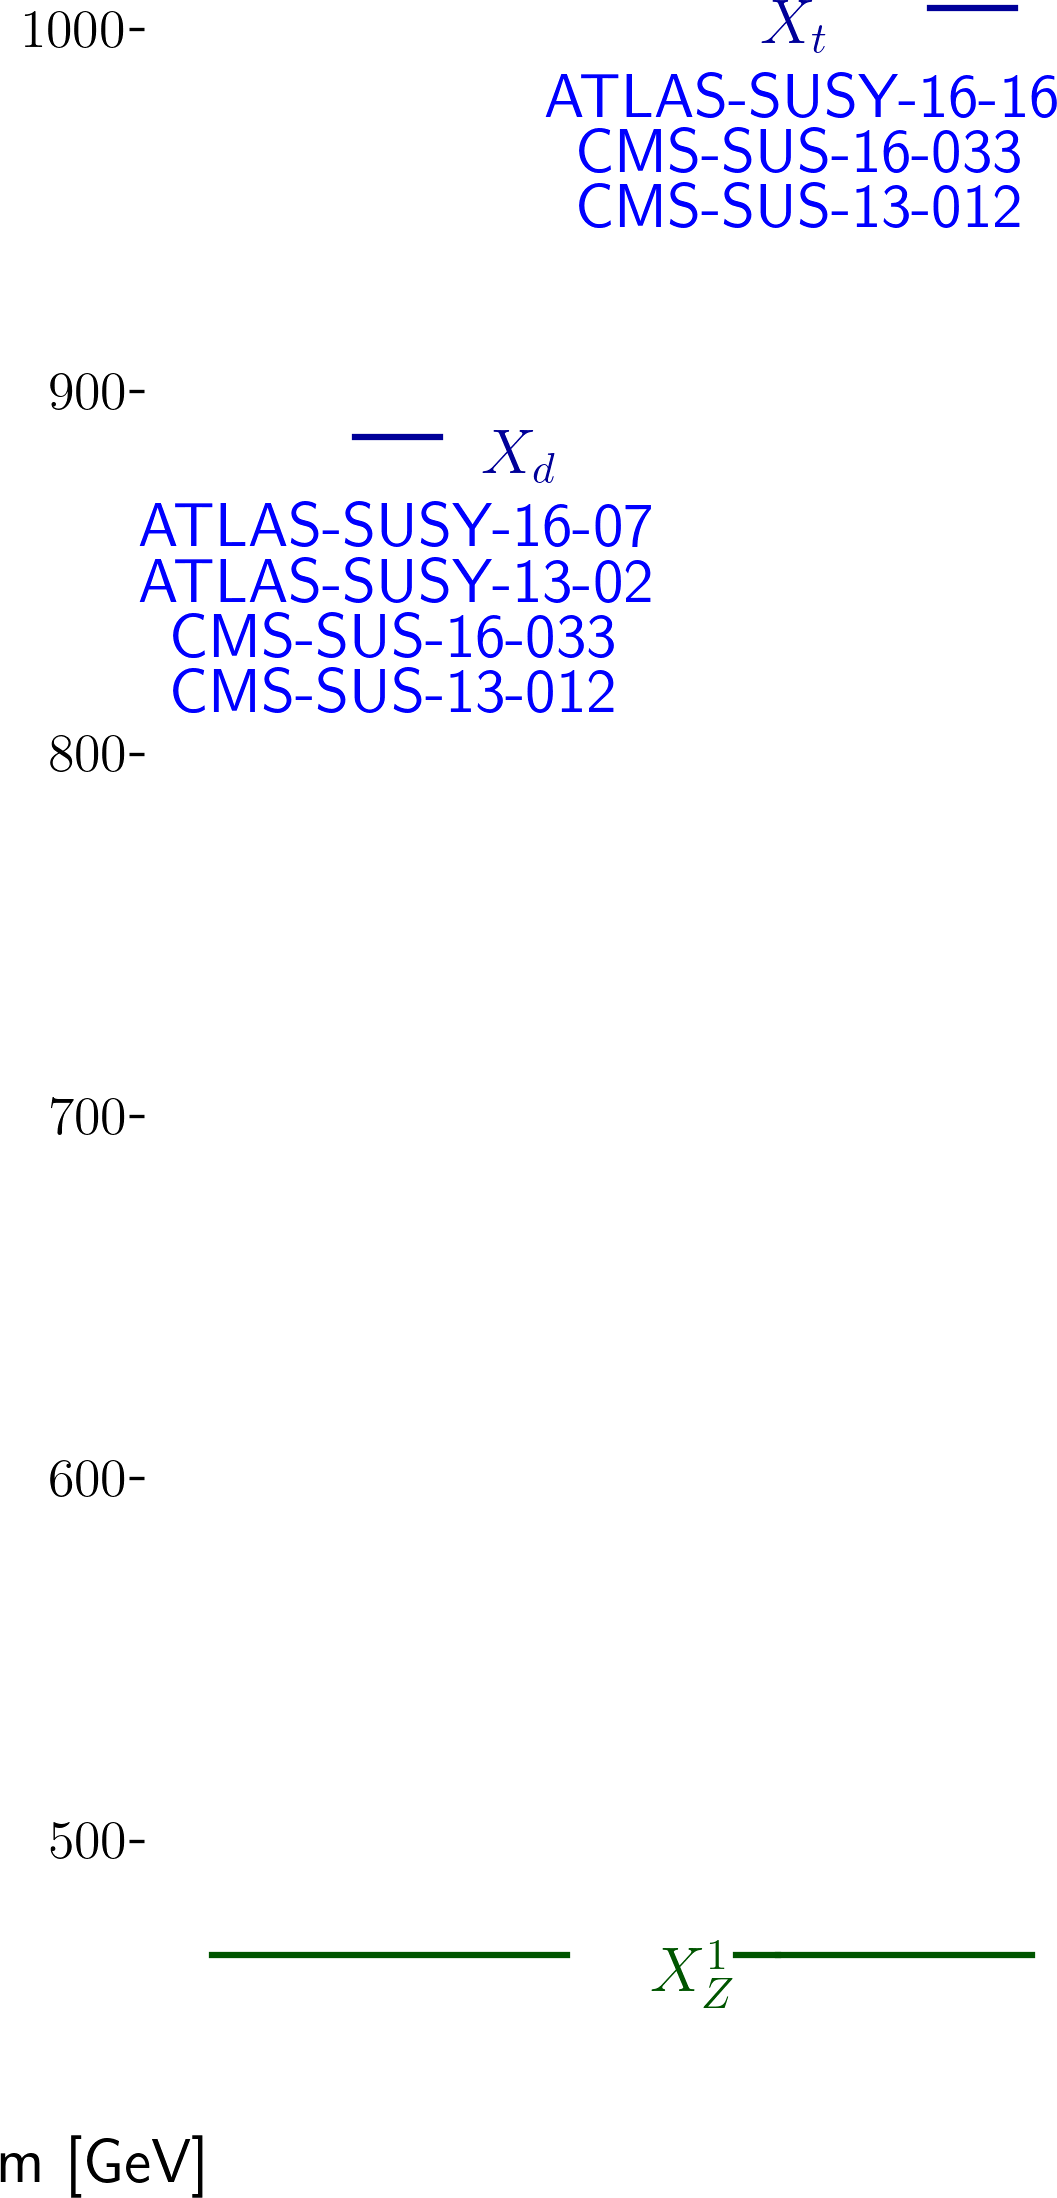
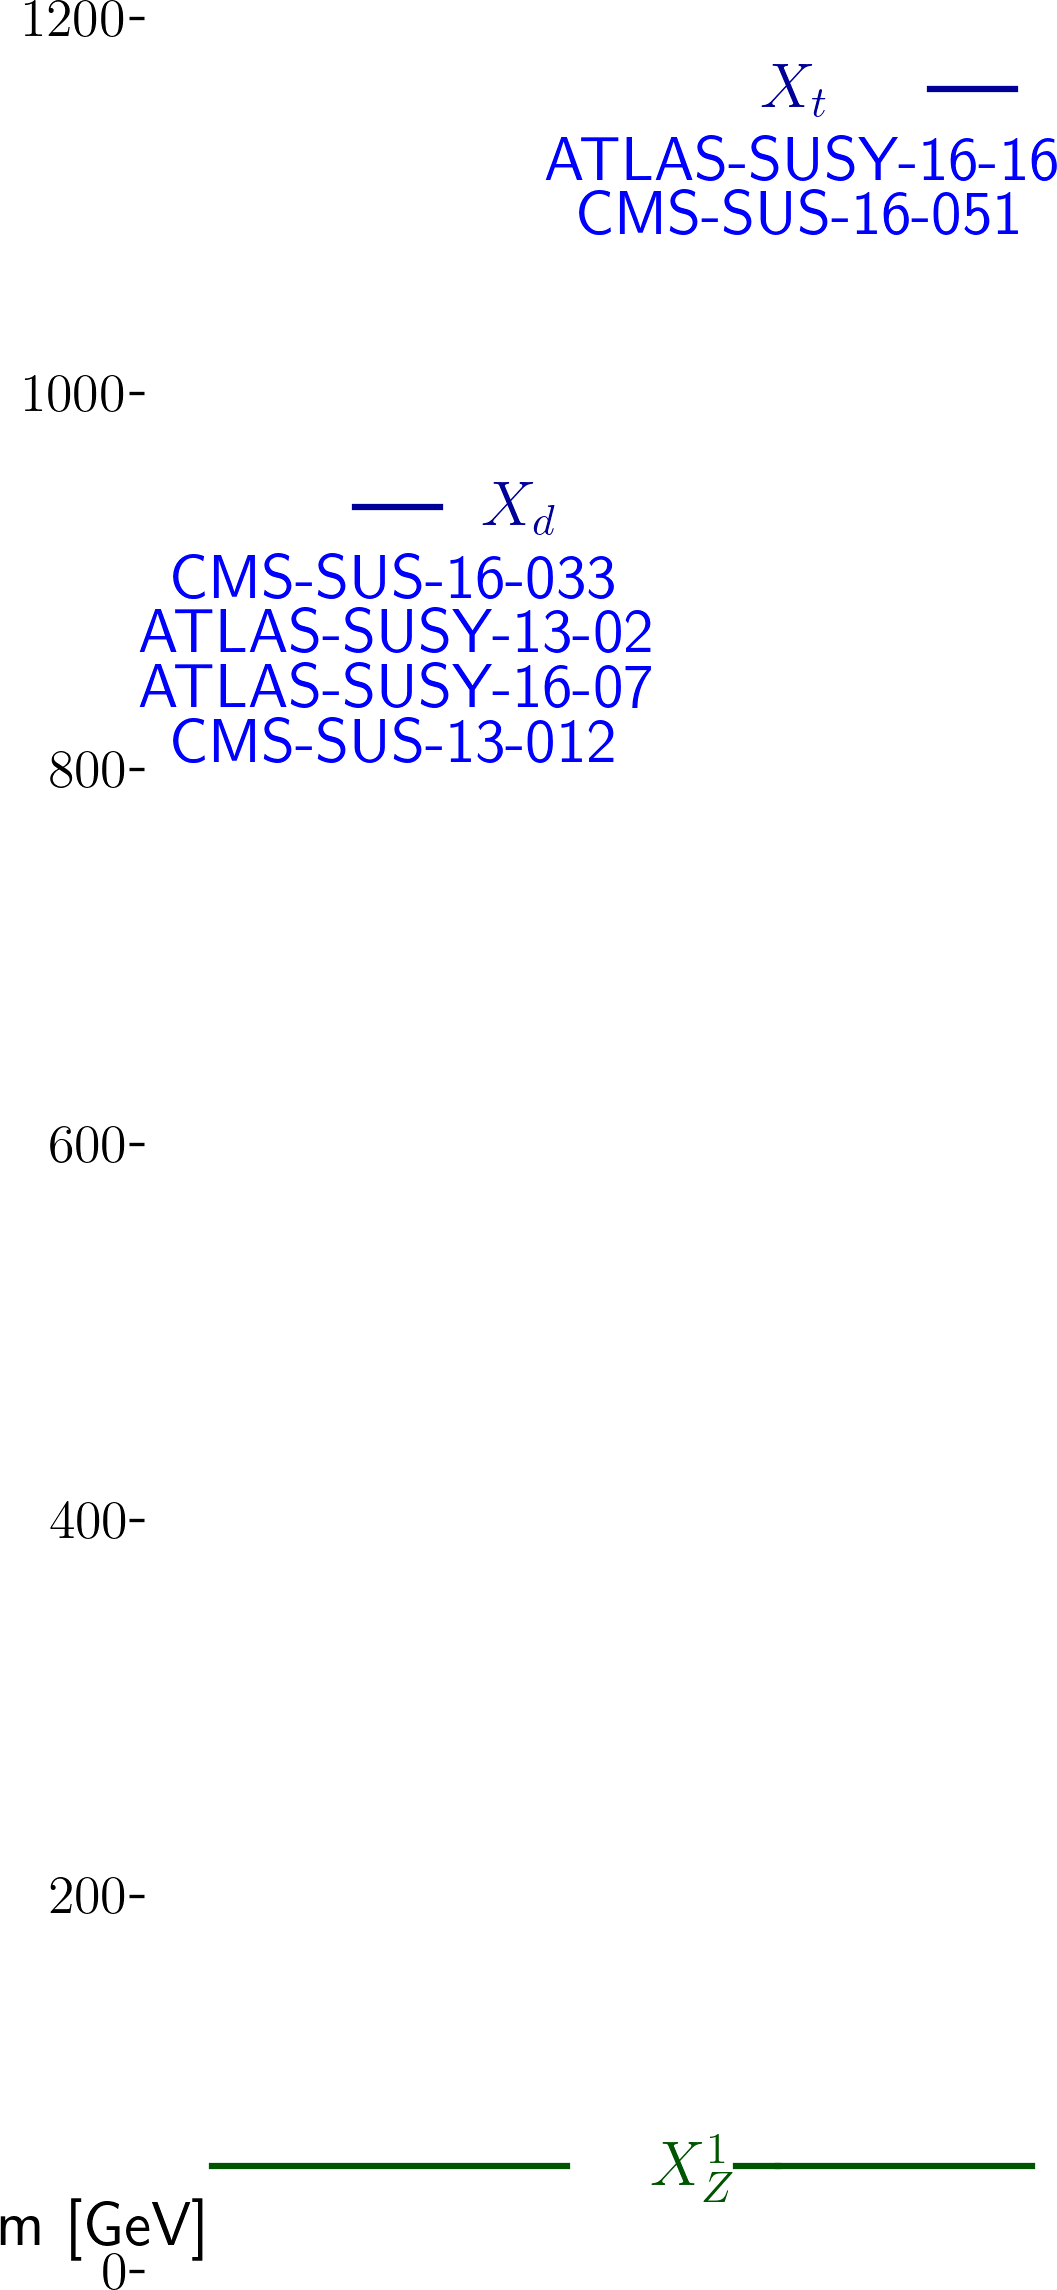
automated update by plotHiscore.py to /scratch-cbe/users/wolfgan.waltenberger/git/smodels.github.io/protomodels

diff --git a/protomodels/2020_PioneerStudy/closure_frozen4/index.html b/protomodels/2020_PioneerStudy/closure_frozen4/index.html
@@ -1,30 +1,31 @@
 <html>
 <body>
 <center>
-<table><td><h1>Current best protomodel: <i>K</i>=4.25</h1><td><img height=60px src=https://smodels.github.io/pics/banner.png></table>
+<table><td><h1>Current best protomodel: <i>K</i>=8.49</h1><td><img height=60px src=https://smodels.github.io/pics/banner.png></table>
 </center>
-<b><a href=./hiscore.slha>ProtoModel</a> <a href=./pmodel.py>(dict)</a> produced with <a href=https://smodels.github.io/docs/Validation124doublefrozen4>database v1.2.4doublefrozen4</a>, combination strategy <a href=./matrix_aggressive.png>aggressive</a> in walker 39 step 803.</b> <i>K</i> plots for: <a href=./M1000022.png?15051224>X<sub>Z</sub><sup>1</sup></a>, <a href=./M1000006.png?15051224>X<sub>t</sub></a>, <a href=./M1000001.png?15051224>X<sub>d</sub></a>. HPD plots for: <a href=./llhd1000006.png?15051224>X<sub>t</sub></a>, <a href=./llhd1000001.png?15051224>X<sub>d</sub></a>. SSM plots for: <a href=./ssm_-1000006_1000006.png?15051224>(x&#772;<sub>t</sub>,X<sub>t</sub>)</a><br>
+<b><a href=./hiscore.slha>ProtoModel</a> <a href=./pmodel.py>(dict)</a> produced with <a href=https://smodels.github.io/docs/Validation124frozen4>database v1.2.4frozen4</a>, combination strategy <a href=./matrix_aggressive.png>aggressive</a> in walker 3 step 894.</b> <i>K</i> plots for: <a href=./M1000022.png?15312448>X<sub>Z</sub><sup>1</sup></a>, <a href=./M1000006.png?15312448>X<sub>t</sub></a>, <a href=./M1000001.png?15312448>X<sub>d</sub></a>. HPD plots for: <a href=./llhd1000006.png?15312448>X<sub>t</sub></a>, <a href=./llhd1000001.png?15312448>X<sub>d</sub></a>. SSM plots for: <a href=./ssm_-1000006_1000006.png?15312448>(x&#772;<sub>t</sub>,X<sub>t</sub>)</a><br>
 <table width=80%>
 <tr><td>
-<br><b>26 predictions available. Highest r values are:</b><br><ul>
-<li><a href=http://cms-results.web.cern.ch/cms-results/public-results/publications/SUS-19-006/index.html>CMS-SUS-19-006</a>:T2 r=1.30, r<sub>exp</sub>=1.30<br>
-<li><a href=http://cms-results.web.cern.ch/cms-results/public-results/publications/SUS-16-049/index.html>CMS-SUS-16-049</a>:T2tt r=1.09, r<sub>exp</sub>=1.09<br>
-<li><a href=http://cms-results.web.cern.ch/cms-results/public-results/publications/SUS-16-050/index.html>CMS-SUS-16-050</a>:T2tt r=1.05, r<sub>exp</sub>=1.05<br>
-<li><a href=http://cms-results.web.cern.ch/cms-results/public-results/publications/SUS-16-033/index.html>CMS-SUS-16-033</a>:T2 r=1.00, r<sub>exp</sub>=1.00<br>
-<li><a href=http://cms-results.web.cern.ch/cms-results/public-results/publications/SUS-19-006/index.html>CMS-SUS-19-006</a>:T2tt r=0.96, r<sub>exp</sub>=0.96<br>
+<br><b>24 predictions available. Highest r values are:</b><br><ul>
+<li><a href=http://cms-results.web.cern.ch/cms-results/public-results/publications/SUS-19-006/index.html>CMS-SUS-19-006</a>:T2tt r=0.62, r<sub>exp</sub>=N/A<br>
+<li><a href=https://atlas.web.cern.ch/Atlas/GROUPS/PHYSICS/PAPERS/SUSY-2016-07/>ATLAS-SUSY-2016-07</a>:T2 r=0.61, r<sub>exp</sub>=N/A<br>
+<li><a href=http://cms-results.web.cern.ch/cms-results/public-results/publications/SUS-16-049/index.html>CMS-SUS-16-049</a>:T2tt r=0.58, r<sub>exp</sub>=N/A<br>
+<li><a href=http://cms-results.web.cern.ch/cms-results/public-results/publications/SUS-16-050/index.html>CMS-SUS-16-050</a>:T2tt r=0.57, r<sub>exp</sub>=N/A<br>
+<li><a href=http://cms-results.web.cern.ch/cms-results/public-results/publications/SUS-16-033/index.html>CMS-SUS-16-033</a>:T2tt r=0.47, r<sub>exp</sub>=N/A<br>
 </ul>
 <td><br><b>K values without analyses: (contribution)</b><br>
 <ul>
-<li> <a href=https://twiki.cern.ch/twiki/bin/view/CMSPublic/PhysicsResultsSUS13012>CMS-SUS-13-012</a>: 5.15 (-21%)
-<li> <a href=https://atlas.web.cern.ch/Atlas/GROUPS/PHYSICS/PAPERS/SUSY-2013-02/>ATLAS-SUSY-2013-02</a>: 4.89 (-15%)
-<li> <a href=http://cms-results.web.cern.ch/cms-results/public-results/publications/SUS-16-033/index.html>CMS-SUS-16-033</a>: 4.27 (0%)
-<li> <a href=https://atlas.web.cern.ch/Atlas/GROUPS/PHYSICS/PAPERS/SUSY-2016-16/>ATLAS-SUSY-2016-16</a>: 2.57 (40%)
-<li> <a href=https://atlas.web.cern.ch/Atlas/GROUPS/PHYSICS/PAPERS/SUSY-2016-07/>ATLAS-SUSY-2016-07</a>: 0.20 (97%)
-<td><img width=600px src=./texdoc.png?1608051224>
-<br><font size=-1>Last updated: Tue Dec 15 17:53:44 2020</font>
+<li> <a href=http://cms-results.web.cern.ch/cms-results/public-results/publications/SUS-16-033/index.html>CMS-SUS-16-033</a>: 0.70 (15%)
+<li> <a href=http://cms-results.web.cern.ch/cms-results/public-results/publications/SUS-16-051/index.html>CMS-SUS-16-051</a>: 0.70 (15%)
+<li> <a href=https://twiki.cern.ch/twiki/bin/view/CMSPublic/PhysicsResultsSUS13012>CMS-SUS-13-012</a>: 0.70 (15%)
+<li> <a href=https://atlas.web.cern.ch/Atlas/GROUPS/PHYSICS/PAPERS/SUSY-2013-02/>ATLAS-SUSY-2013-02</a>: 0.63 (15%)
+<li> <a href=https://atlas.web.cern.ch/Atlas/GROUPS/PHYSICS/PAPERS/SUSY-2016-07/>ATLAS-SUSY-2016-07</a>: -0.57 (18%)
+<li> <a href=https://atlas.web.cern.ch/Atlas/GROUPS/PHYSICS/PAPERS/SUSY-2016-16/>ATLAS-SUSY-2016-16</a>: -1.99 (21%)
+<td><img width=600px src=./texdoc.png?1608312448>
+<br><font size=-1>Last updated: Fri Dec 18 18:27:28 2020</font>
 </table><table style="width:80%">
-<td width=45%><img height=580px src=./ruler.png?1608051224><td width=55%><img height=380px src=./decays.png?1608051224>
-<font size=-3><iframe type="text/html" height="220px" width="100%s" frameborder="0" src="./rawnumbers.html?1608051224"></iframe></font>
+<td width=45%><img height=580px src=./ruler.png?1608312448><td width=55%><img height=380px src=./decays.png?1608312448>
+<font size=-3><iframe type="text/html" height="220px" width="100%s" frameborder="0" src="./rawnumbers.html?1608312448"></iframe></font>
 </table>
 </body>
 </html>

diff --git a/protomodels/2020_PioneerStudy/closure_frozen4/rawnumbers.html b/protomodels/2020_PioneerStudy/closure_frozen4/rawnumbers.html
@@ -1,9 +1,10 @@
 <table>
 <tr><th>Analysis Name</th><th>Type</th><th>Dataset</th><th>Topos</th><th>Observed</th><th>Expected</th><th>Approx &sigma;</th><th>Particles</th><th>Signal</th>
 </tr>
-<tr><td><a href=https://atlas.web.cern.ch/Atlas/GROUPS/PHYSICS/PAPERS/SUSY-2013-02/>ATLAS-SUSY-2013-02</a></td><td>em</td> <td>SR2jm</td><td>T2</td><td>791.45</td><td>760 +/- 50</td><td style="text-align:right">0.6 &sigma;</td><td style="text-align:right">X<sub>d</sub></td><td style="text-align:right">31.45</td></tr>
-<tr><td><a href=https://atlas.web.cern.ch/Atlas/GROUPS/PHYSICS/PAPERS/SUSY-2016-07/>ATLAS-SUSY-2016-07</a></td><td>em</td> <td>2j_Meff_1200</td><td>T2</td><td>614.32</td><td>526 +/- 31</td><td style="text-align:right">2.3 &sigma;</td><td style="text-align:right">X<sub>d</sub></td><td style="text-align:right">88.32</td></tr>
+<tr><td><a href=https://atlas.web.cern.ch/Atlas/GROUPS/PHYSICS/PAPERS/SUSY-2013-02/>ATLAS-SUSY-2013-02</a></td><td>em</td> <td>SR4jt</td><td>T2</td><td>2.73</td><td>2.5 +/- 1</td><td style="text-align:right">0.1 &sigma;</td><td style="text-align:right">X<sub>d</sub></td><td style="text-align:right">0.23</td></tr>
+<tr><td><a href=https://atlas.web.cern.ch/Atlas/GROUPS/PHYSICS/PAPERS/SUSY-2016-07/>ATLAS-SUSY-2016-07</a></td><td>em</td> <td>2j_Meff_1200</td><td>T2</td><td>570.16</td><td>526 +/- 31</td><td style="text-align:right">1.1 &sigma;</td><td style="text-align:right">X<sub>d</sub></td><td style="text-align:right">44.16</td></tr>
 <tr><td><a href=https://atlas.web.cern.ch/Atlas/GROUPS/PHYSICS/PAPERS/SUSY-2016-16/>ATLAS-SUSY-2016-16</a></td><td>em</td> <td>tN_high</td><td>T2tt</td><td>7.73</td><td>3.8 +/- 1</td><td style="text-align:right">1.8 &sigma;</td><td style="text-align:right">X<sub>t</sub></td><td style="text-align:right">3.93</td></tr>
-<tr><td><a href=https://twiki.cern.ch/twiki/bin/view/CMSPublic/PhysicsResultsSUS13012>CMS-SUS-13-012</a></td><td>em</td> <td>8NJetinf_500HT8 ...</td><td>T2, T2tt</td><td>4.80</td><td>4.8 +/- 2.3</td><td style="text-align:right">0.0 &sigma;</td><td style="text-align:right">X<sub>d</sub>, X<sub>t</sub></td><td style="text-align:right">0.00</td></tr>
-<tr><td><a href=http://cms-results.web.cern.ch/cms-results/public-results/publications/SUS-16-033/index.html>CMS-SUS-16-033</a></td><td>em</td> <td>SR1_Njet2_Nb0_H ...</td><td>T2, T2tt</td><td>8000.72</td><td>7584 +/- 433</td><td style="text-align:right">0.9 &sigma;</td><td style="text-align:right">X<sub>d</sub>, X<sub>t</sub></td><td style="text-align:right">416.72</td></tr>
+<tr><td><a href=https://twiki.cern.ch/twiki/bin/view/CMSPublic/PhysicsResultsSUS13012>CMS-SUS-13-012</a></td><td>ul</td> <td>-</td><td>T2</td><td> 9.6 fb </td><td> 7.0 fb</td><td style="text-align:right">0.7 &sigma;</td><td style="text-align:right">X<sub>d</sub></td><td style="text-align:right">2.66 fb</td></tr>
+<tr><td><a href=http://cms-results.web.cern.ch/cms-results/public-results/publications/SUS-16-033/index.html>CMS-SUS-16-033</a></td><td>ul</td> <td>-</td><td>T2</td><td> 35.1 fb </td><td> 11.2 fb</td><td style="text-align:right">4.2 &sigma;</td><td style="text-align:right">X<sub>d</sub></td><td style="text-align:right">23.95 fb</td></tr>
+<tr><td><a href=http://cms-results.web.cern.ch/cms-results/public-results/publications/SUS-16-051/index.html>CMS-SUS-16-051</a></td><td>ul</td> <td>-</td><td>T2tt</td><td> 7.1 fb </td><td> 4.5 fb</td><td style="text-align:right">1.1 &sigma;</td><td style="text-align:right">X<sub>t</sub></td><td style="text-align:right">2.62 fb</td></tr>
 </table>

diff --git a/protomodels/2020_PioneerStudy/closure_frozen4/pmodel.py b/protomodels/2020_PioneerStudy/closure_frozen4/pmodel.py
@@ -1,1 +1,1 @@
-{'masses': {1000022: 458.524, 1000001: 877.32, 1000006: 995.905}, 'ssmultipliers': {(1000022, 1000022): 0.0, (1000001, 1000001): 2.254, (-1000001, 1000001): 2.254, (-1000001, -1000001): 2.254, (1000001, 1000022): 0.998, (-1000001, 1000022): 2.254, (1000006, 1000006): 0.998, (-1000006, 1000006): 0.998, (-1000006, -1000006): 0.998, (1000006, 1000022): 0.998, (-1000006, 1000022): 0.998, (1000001, 1000006): 0.998, (-1000006, 1000001): 0.998, (-1000001, 1000006): 0.998, (-1000006, -1000001): 0.998}, 'decays': {1000022: {}, 1000001: {(1000022, 1): 1.0}, 1000006: {(1000022, 6): 1.0}}, 'timestamp': 'Tue Dec 15 17:53:34 2020', 'Z': 2.798, 'K': 4.253, 'walkerid': 39, 'step': 803, 'codever': '1.0', 'dbver': '1.2.4doublefrozen4'}
+{'masses': {1000022: 45.963, 1000001: 929.551, 1000006: 1152.122}, 'ssmultipliers': {(1000022, 1000022): 0.0, (1000001, 1000001): 1.272, (-1000001, 1000001): 1.272, (-1000001, -1000001): 1.272, (1000001, 1000022): 1.272, (-1000001, 1000022): 1.272, (1000006, 1000006): 1.296, (-1000006, 1000006): 1.295, (-1000006, -1000006): 1.296, (1000006, 1000022): 1.296, (-1000006, 1000022): 1.296, (1000001, 1000006): 1.248, (-1000006, 1000001): 1.169, (-1000001, 1000006): 1.169, (-1000006, -1000001): 1.169}, 'decays': {1000022: {}, 1000001: {(1000022, 1): 1.0}, 1000006: {(1000022, 6): 1.0}}, 'timestamp': 'Fri Dec 18 18:27:18 2020', 'Z': 3.437, 'K': 8.486, 'walkerid': 3, 'step': 894, 'codever': '1.0', 'dbver': '1.2.4frozen4'}
